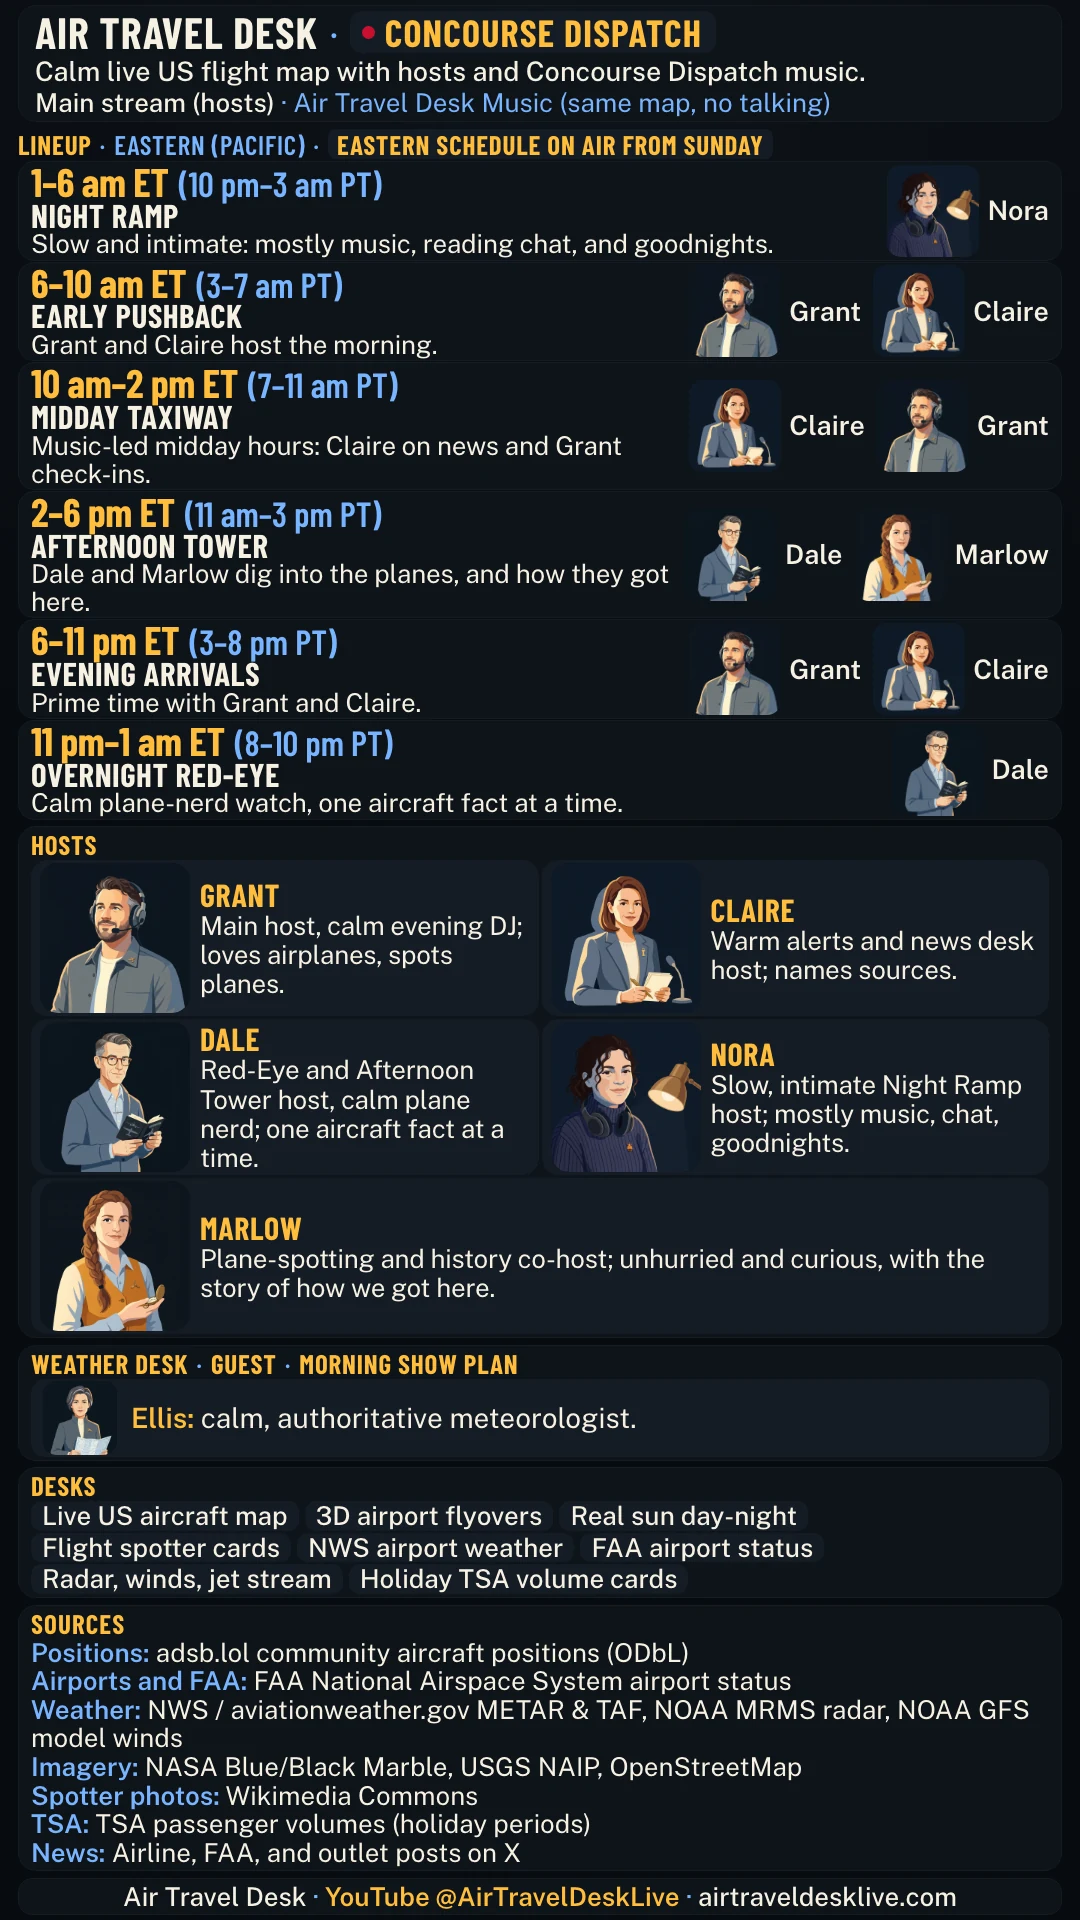
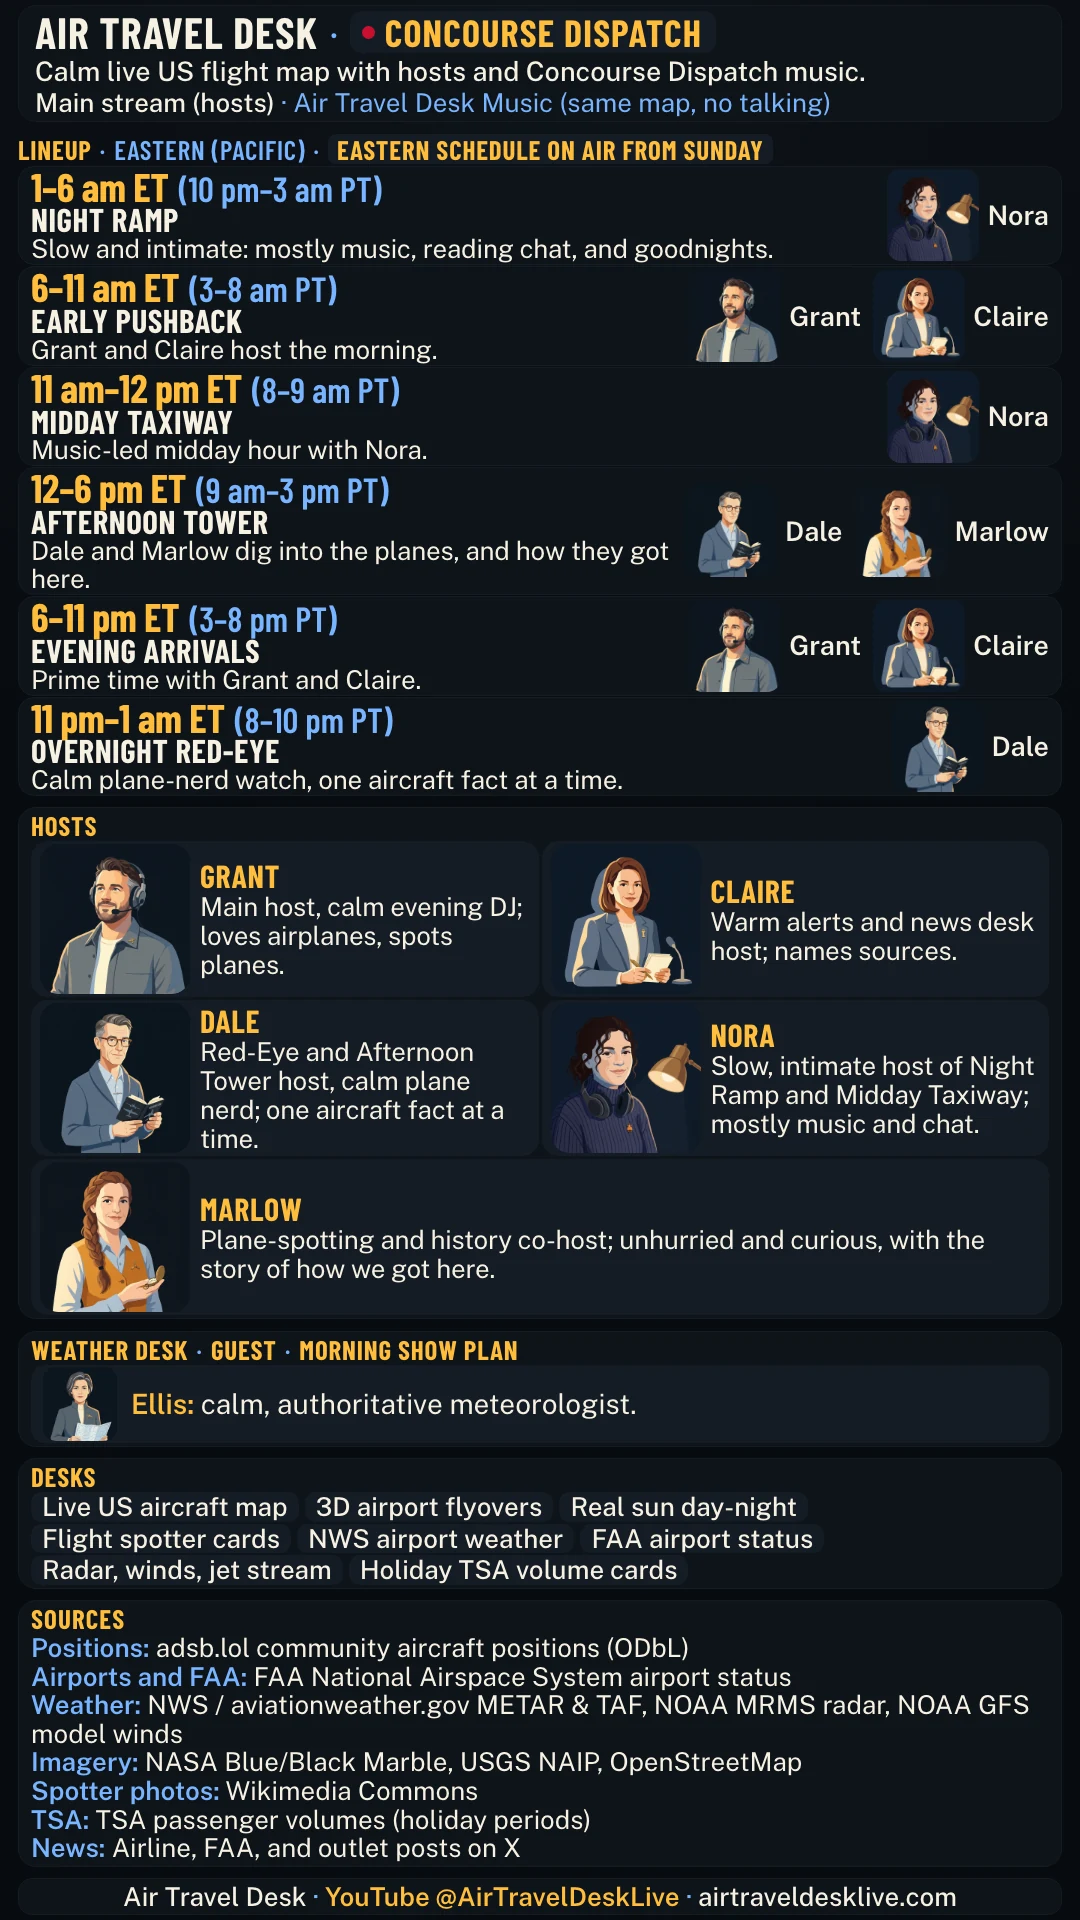
AN221: show lineup page (/shows), Shows nav chip, lineup link under the live video
New page with the six shows (Eastern with Pacific in brackets), hosts, desks, sources and the one-page image; link under the watch drawer video; nav chip on the static pages and in the page generators; service worker cache v19; nav tests updated.

diff --git a/shows.html b/shows.html
@@ -341,7 +341,7 @@
           <li class="schedule-row">
             <div class="schedule-slot">
               <strong class="show-title">EARLY PUSHBACK</strong>
-              <span class="show-time">6-10 am ET (3-7 am PT)</span>
+              <span class="show-time">6-11 am ET (3-8 am PT)</span>
             </div>
             <div class="schedule-detail">
               <div class="show-hosts">
@@ -357,23 +357,22 @@
           <li class="schedule-row">
             <div class="schedule-slot">
               <strong class="show-title">MIDDAY TAXIWAY</strong>
-              <span class="show-time">10 am-2 pm ET (7-11 am PT)</span>
+              <span class="show-time">11 am-12 pm ET (8-9 am PT)</span>
             </div>
             <div class="schedule-detail">
               <div class="show-hosts">
                 <span class="show-avatars">
-                  <img class="avatar avatar--sm" src="assets/shows/avatar-claire.webp" width="64" height="64" alt="">
-                  <img class="avatar avatar--sm" src="assets/shows/avatar-grant.webp" width="64" height="64" alt="">
+                  <img class="avatar avatar--sm" src="assets/shows/avatar-nora.webp" width="64" height="64" alt="">
                 </span>
-                <span class="show-host-names">Claire and Grant</span>
+                <span class="show-host-names">Nora</span>
               </div>
-              <p class="show-desc">Music-led midday hours: Claire on news and Grant check-ins.</p>
+              <p class="show-desc">Music-led midday hour with Nora.</p>
             </div>
           </li>
           <li class="schedule-row">
             <div class="schedule-slot">
               <strong class="show-title">AFTERNOON TOWER</strong>
-              <span class="show-time">2-6 pm ET (11 am-3 pm PT)</span>
+              <span class="show-time">12-6 pm ET (9 am-3 pm PT)</span>
             </div>
             <div class="schedule-detail">
               <div class="show-hosts">
@@ -451,7 +450,7 @@
             <img class="avatar avatar--lg" src="assets/shows/avatar-nora.webp" width="160" height="160" loading="lazy" alt="">
             <div class="host-body">
               <strong class="host-name">Nora</strong>
-              <p>Slow, intimate Night Ramp host; mostly music, chat, goodnights.</p>
+              <p>Slow, intimate host of Night Ramp and Midday Taxiway; mostly music and chat.</p>
             </div>
           </li>
           <li class="host-card">

diff --git a/index.html b/index.html
@@ -41,7 +41,6 @@
         <span class="brand-title">Air Travel Desk</span>
         <span class="live-dot" aria-hidden="true"></span>
       </a>
-      <a class="chip wall-chip" href="/wall/">Live wall</a>
       <nav class="header-nav" aria-label="Site navigation">
         <a class="chip nav-wide" href="/" aria-current="page">Live board</a>
         <a class="chip" href="/airports/">Airports</a>
@@ -217,7 +216,7 @@
       </nav>
       <section id="watch" class="watch-section" aria-labelledby="watch-heading">
         <h2 id="watch-heading">Watch live with voice</h2>
-        <p>The same updates, read aloud around the clock: <a class="tap" href="https://www.youtube.com/@AirTravelDeskLive/live" target="_blank" rel="noopener noreferrer">YouTube</a>.</p>
+        <p>The same updates, read aloud around the clock: <a class="tap" href="https://www.youtube.com/@AirTravelDeskLive/live" target="_blank" rel="noopener noreferrer">YouTube</a>, or <a class="tap" href="/tv">TV mode</a> for a spare screen.</p>
         <button type="button" class="chip chip--button" data-watch-open>Watch live at the top of the page</button>
       </section>
       <section id="while-you-wait" class="wait-card" aria-labelledby="wait-heading">

diff --git a/style.css b/style.css
@@ -1150,9 +1150,6 @@ details.airline-links[open] > summary { margin-bottom: 12px; }
   .header-nav { width: calc(100% + 12px); margin: 0 -6px; justify-content: space-between; }
   .header-nav .nav-wide { display: inline-flex; }
   .header-nav .chip { padding: 0 6px; font-size: 0.875rem; min-height: 40px; }
-  /* 21 Nov (CoS): on phones the wall link is its own row under the brand, above the section nav. */
-  .header-in > .wall-chip { order: 1; flex-basis: 100%; justify-content: center; margin: 4px 0; }
-  .header-nav { order: 2; }
 }
 
 /* ---------- AN34 round 4 airport pages: one "Today at" strip, help beside the official links ---------- */
@@ -1334,6 +1331,5 @@ details.airline-links[open] > summary { margin-bottom: 12px; }
 .do-first h2 { margin: 0 0 8px; }
 .do-first ul { list-style: none; padding: 0; margin: 0; }
 .do-first a { display: block; padding: 10px 0; min-height: 44px; }
-
 /* AN221 nav fit: seven chips (Shows added) must still fit on a 375 px phone */
 @media (max-width: 430px) { .header-nav .chip { font-size: 0.8125rem; padding: 0 4px; } .header-nav { gap: 0; } }
